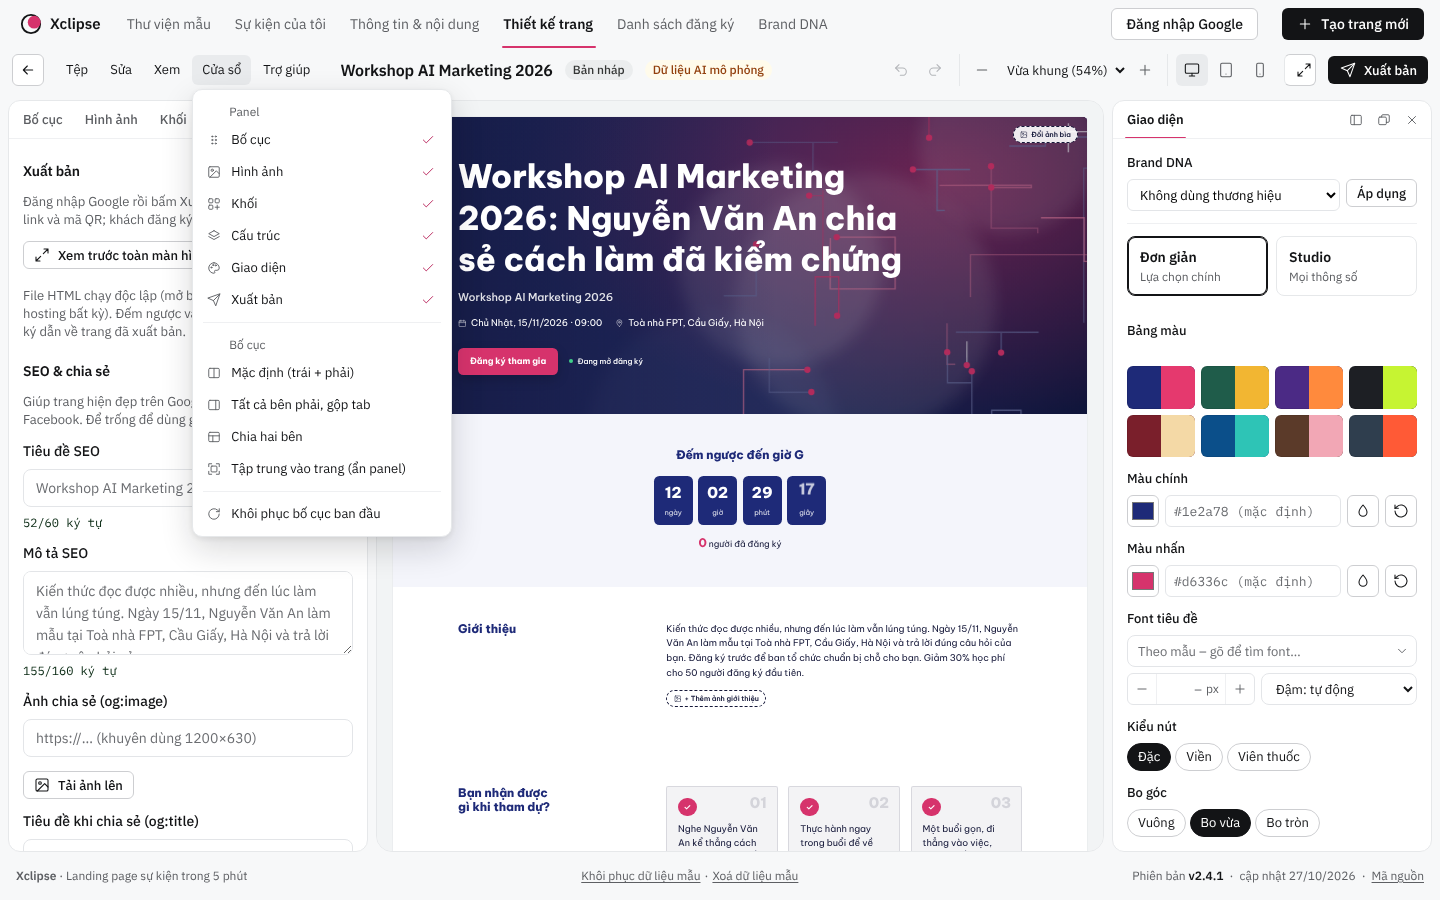
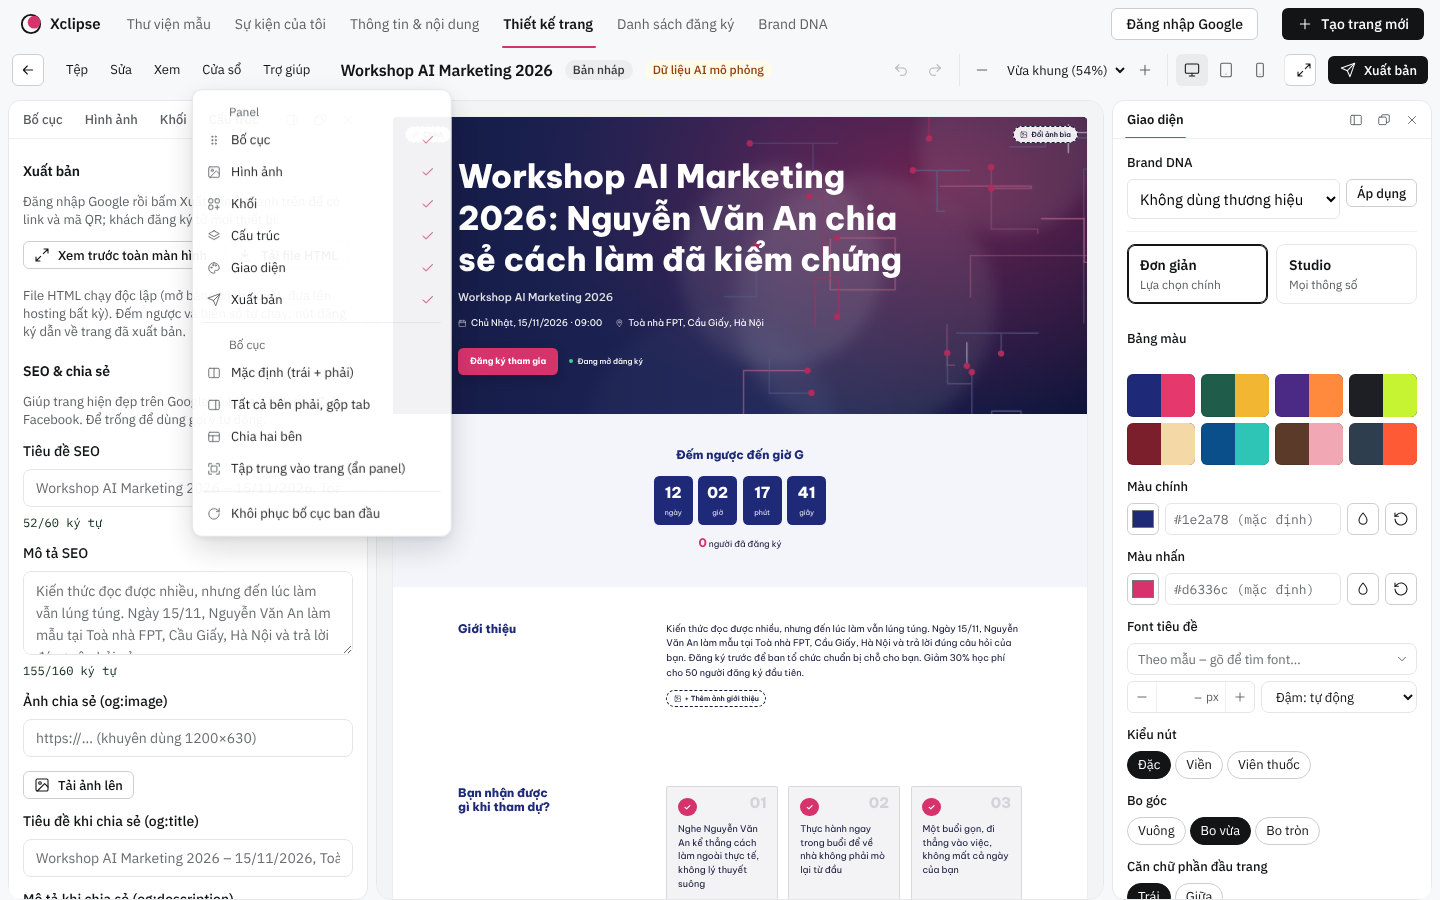
Lock the design view to one screen so the top bar and design toolbar never separate
Claude-Session: https://claude.ai/code/session_0184XPwtsnnR2N5roWu2rmSy

diff --git a/index.html b/index.html
@@ -31,9 +31,9 @@
   <link rel="preconnect" href="https://fonts.gstatic.com" crossorigin>
   <link rel="stylesheet" href="https://fonts.googleapis.com/css2?family=IBM+Plex+Sans:wght@400;500;600&family=IBM+Plex+Mono:wght@400;500&display=swap">
   <link rel="stylesheet" href="https://fonts.googleapis.com/css2?family=Be+Vietnam+Pro:wght@400;500;600;700;800&family=Playfair+Display:wght@600;700&family=Montserrat:wght@500;700;800&family=Nunito:wght@400;600;800&family=Lora:wght@500;700&display=swap">
-  <link rel="stylesheet" href="css/tokens.css?v=2.5.0">
-  <link rel="stylesheet" href="css/app.css?v=2.5.0">
-  <link rel="stylesheet" href="css/landing.css?v=2.5.0">
+  <link rel="stylesheet" href="css/tokens.css?v=2.5.1">
+  <link rel="stylesheet" href="css/app.css?v=2.5.1">
+  <link rel="stylesheet" href="css/landing.css?v=2.5.1">
   <script>/* chọn tab đầu trước khi vẽ: link chia sẻ ẩn app; người từng đăng nhập vào thẳng "Sự kiện của tôi" */
   (function(d){try{if(/[?&]e=/.test(location.search))d.className+=' boot-public';else if(localStorage.getItem('ep_signed_in')==='1')d.className+=' boot-events';}catch(e){}})(document.documentElement);</script>
   <style>.boot-public main.view,.boot-events #view-templates{display:none!important}</style>
@@ -599,33 +599,33 @@
   <script src="vendor/firebase/firebase-auth-compat.js"></script>
   <script src="vendor/firebase/firebase-firestore-compat.js"></script>
   <script src="vendor/qrcode/qrcode.js"></script>
-  <script defer src="js/firebase-config.js?v=2.5.0"></script>
-  <script defer src="js/storage.js?v=2.5.0"></script>
-  <script defer src="js/validators.js?v=2.5.0"></script>
-  <script defer src="js/event-status.js?v=2.5.0"></script>
-  <script defer src="js/registrations.js?v=2.5.0"></script>
-  <script defer src="js/content-generator.js?v=2.5.0"></script>
-  <script defer src="js/ai-service.js?v=2.5.0"></script>
-  <script defer src="js/sheet-sync.js?v=2.5.0"></script>
-  <script defer src="js/cloud.js?v=2.5.0"></script>
-  <script defer src="js/templates-data.js?v=2.5.0"></script>
-  <script defer src="js/templates.js?v=2.5.0"></script>
-  <script defer src="js/images.js?v=2.5.0"></script>
-  <script defer src="js/image-editor.js?v=2.5.0"></script>
-  <script defer src="js/brands.js?v=2.5.0"></script>
-  <script defer src="js/brand-ai.js?v=2.5.0"></script>
-  <script defer src="js/icons.js?v=2.5.0"></script>
-  <script defer src="js/motion.js?v=2.5.0"></script>
-  <script defer src="js/page-style.js?v=2.5.0"></script>
-  <script defer src="js/lp-utils.js?v=2.5.0"></script>
-  <script defer src="js/seo.js?v=2.5.0"></script>
-  <script defer src="js/landing-renderer.js?v=2.5.0"></script>
-  <script defer src="js/inspector.js?v=2.5.0"></script>
-  <script defer src="js/workspace.js?v=2.5.0"></script>
-  <script defer src="js/version.js?v=2.5.0"></script>
-  <script defer src="js/charts.js?v=2.5.0"></script>
-  <script defer src="js/demo-data.js?v=2.5.0"></script>
-  <script defer src="js/popup.js?v=2.5.0"></script>
-  <script defer src="js/app.js?v=2.5.0"></script>
+  <script defer src="js/firebase-config.js?v=2.5.1"></script>
+  <script defer src="js/storage.js?v=2.5.1"></script>
+  <script defer src="js/validators.js?v=2.5.1"></script>
+  <script defer src="js/event-status.js?v=2.5.1"></script>
+  <script defer src="js/registrations.js?v=2.5.1"></script>
+  <script defer src="js/content-generator.js?v=2.5.1"></script>
+  <script defer src="js/ai-service.js?v=2.5.1"></script>
+  <script defer src="js/sheet-sync.js?v=2.5.1"></script>
+  <script defer src="js/cloud.js?v=2.5.1"></script>
+  <script defer src="js/templates-data.js?v=2.5.1"></script>
+  <script defer src="js/templates.js?v=2.5.1"></script>
+  <script defer src="js/images.js?v=2.5.1"></script>
+  <script defer src="js/image-editor.js?v=2.5.1"></script>
+  <script defer src="js/brands.js?v=2.5.1"></script>
+  <script defer src="js/brand-ai.js?v=2.5.1"></script>
+  <script defer src="js/icons.js?v=2.5.1"></script>
+  <script defer src="js/motion.js?v=2.5.1"></script>
+  <script defer src="js/page-style.js?v=2.5.1"></script>
+  <script defer src="js/lp-utils.js?v=2.5.1"></script>
+  <script defer src="js/seo.js?v=2.5.1"></script>
+  <script defer src="js/landing-renderer.js?v=2.5.1"></script>
+  <script defer src="js/inspector.js?v=2.5.1"></script>
+  <script defer src="js/workspace.js?v=2.5.1"></script>
+  <script defer src="js/version.js?v=2.5.1"></script>
+  <script defer src="js/charts.js?v=2.5.1"></script>
+  <script defer src="js/demo-data.js?v=2.5.1"></script>
+  <script defer src="js/popup.js?v=2.5.1"></script>
+  <script defer src="js/app.js?v=2.5.1"></script>
 </body>
 </html>

diff --git a/css/app.css b/css/app.css
@@ -1446,3 +1446,20 @@ html.tpv-lock { overflow: hidden; }
 .brand-ai-wrap > summary { cursor: pointer; padding: 14px 20px; font-weight: 700; font-size: 17px; list-style-position: inside; }
 .brand-ai-wrap > .bai { margin: 0; border: 0; border-top: 1px solid var(--border); border-radius: 0 0 var(--radius) var(--radius); background: var(--surface); }
 }
+
+/* Trình thiết kế (màn rộng): cả app khoá đúng 1 màn hình, trang không cuộn/nảy nên thanh trên và thanh Thiết kế luôn liền nhau */
+@layer app {
+  @media (min-width: 1101px) {
+    html.is-editor, html.is-editor body { height: 100%; overflow: hidden; overscroll-behavior: none; }
+    html.is-editor .app-footer { display: none; }
+    html.is-editor .editor.view:not([hidden]) { height: calc(100dvh - var(--topbar-h, 56px)); margin-top: 0; padding-top: 0; animation: none; transform: none; }
+    html.is-editor .editor-bar { position: static; }
+  }
+}
+/* Màn 1101–1320px: thanh trên đủ chỗ cho mọi tab + 2 nút (nút Tạo trang mới chỉ còn biểu tượng) */
+@layer app {
+  @media (min-width: 761px) and (max-width: 1320px) {
+    #btn-new .lbl { display: none; }
+    #btn-new { padding-inline: 12px; }
+  }
+}

diff --git a/js/version.js b/js/version.js
@@ -4,9 +4,9 @@
  */
 (function (root) {
   var INFO = {
-    version: '2.5.0',
+    version: '2.5.1',
     date: '2026-10-27',
-    notes: 'Thanh trên và thanh thiết kế luôn cố định; hết chớp trắng khi chuyển tab; chữ lớn và gọn hơn; Brand DNA bố cục mới; tuỳ chỉnh meta chia sẻ cho từng trang',
+    notes: 'Trang Thiết kế khoá vừa 1 màn hình: thanh trên và thanh thiết kế luôn liền nhau, không nảy tách khi kéo',
     repo: 'ShizukaDreemurr/VibeCodeLandingPageBuilder',
     branch: 'claude/serene-ramanujan-7wxqwr' // nhánh GitHub Pages đang xuất bản
   };

diff --git a/js/app.js b/js/app.js
@@ -2794,7 +2794,9 @@
   function switchTab(name) {
     var dir = currentTab && currentTab !== name ? (TAB_ORDER.indexOf(name) > TAB_ORDER.indexOf(currentTab) ? 'forward' : 'back') : null;
     currentTab = name;
+    document.documentElement.classList.toggle('is-editor', name === 'editor');
     doSwitchTab(name);
+    if (name === 'editor') { root.scrollTo(0, 0); syncTopbarH(); }
     // Màn mới trượt vào theo hướng của tab (sang phải: từ phải vào, sang trái: từ trái vào)
     if (dir) EP.motion.replay($('#view-' + name), 'tab-in-' + dir);
   }
